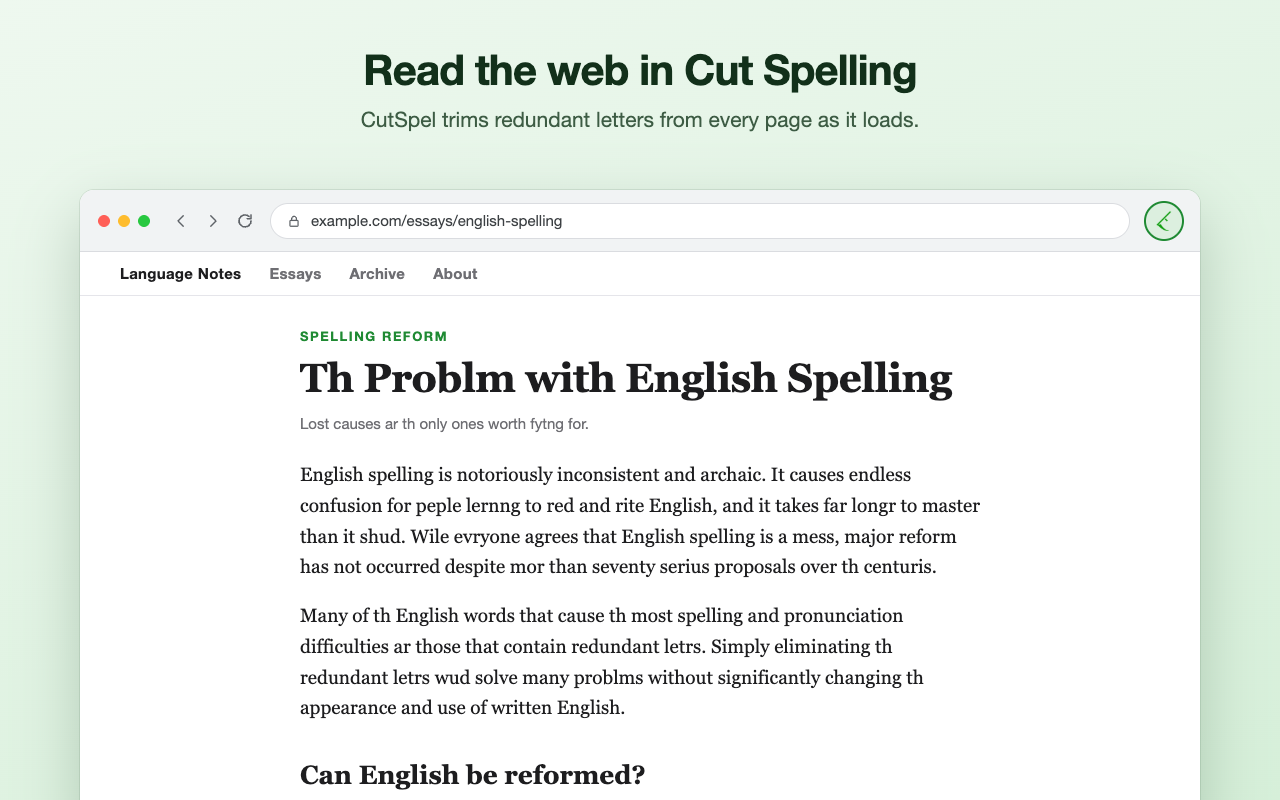
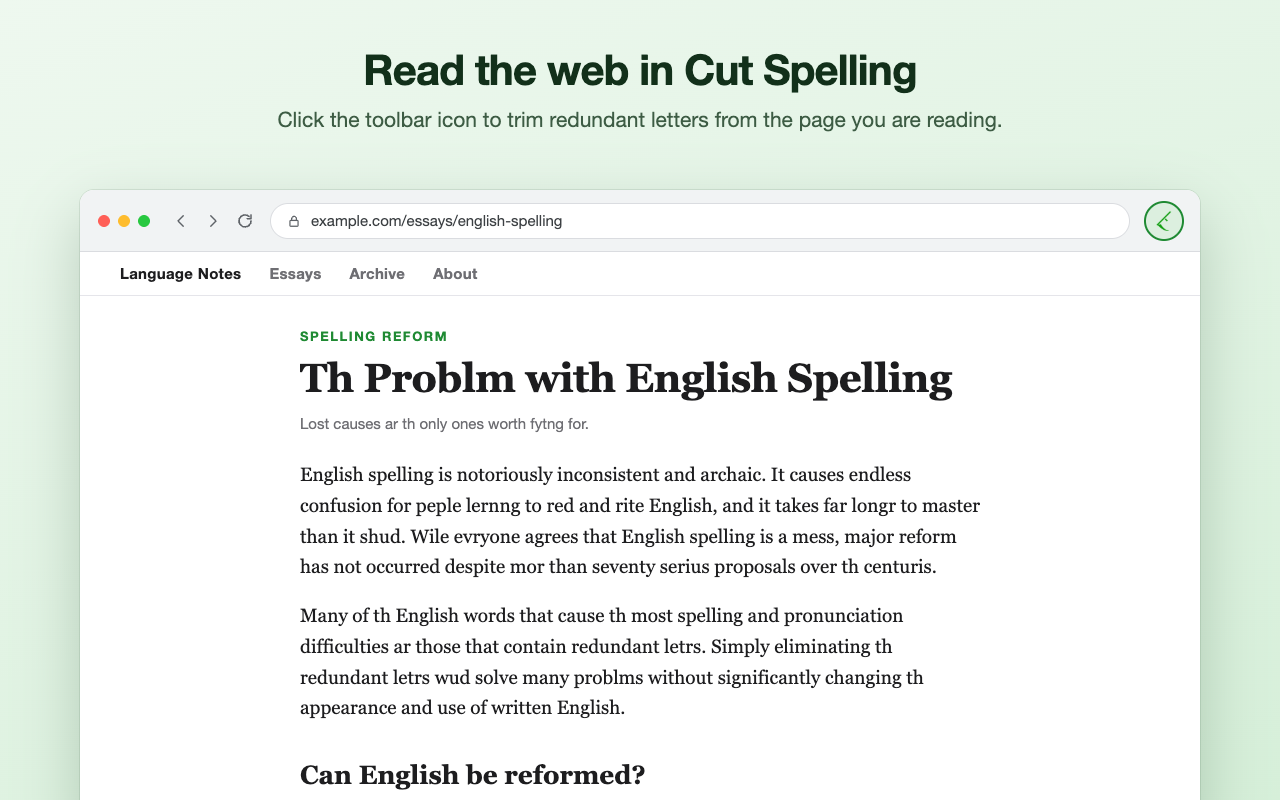
Switch to click-to-cut with optional automatic mode
CutSpel no longer needs access to all websites at install. Clicking the
toolbar icon cuts the current page (activeTab + scripting) and clicking
again restores the traditional spelling. "Cut every page automatically"
on the options page requests optional all-sites access and registers
the content script dynamically; turning it off removes the access.

- Track original text so a page can be restored exactly
- Show a per-tab green/grey icon for cut and uncut pages
- Turn automatic mode off if all-sites access is withdrawn
- Keep automatic mode for upgrading users whose access carried over
- Correct the word counts to 780 (Basic) and about 4,200 (Advanced)
- Update the README for the new behaviour and add a privacy note
- Refresh store screenshots 1 and 4

Changed region(s): [[0.2188, 0.125, 0.7812, 0.1562]]

diff --git a/context-script.js b/context-script.js
@@ -45,7 +45,7 @@
 		return false;
 	}
 
-	function start(words, advanced) {
+	function buildCutter(words, advanced) {
 		var cuts = {},
 			patterns = [];
 
@@ -53,26 +53,38 @@
 			if (advanced || words[i][2]) {
 				cuts[words[i][0]] = words[i][1];
 				//Match both straight and curly apostrophes
-				patterns.push(escapeRegex(words[i][0]).replace(/'/g, "['\u2019]"));
+				patterns.push(escapeRegex(words[i][0]).replace(/'/g, "['’]"));
 			}
 		}
 		if (patterns.length === 0) {
-			return;
+			return null;
 		}
 		//Longest first so the alternation prefers whole words
 		patterns.sort(function(a, b) { return b.length - a.length; });
 		var regex = new RegExp("\\b(?:" + patterns.join("|") + ")\\b", "gi");
+
+		return function(text) {
+			return text.replace(regex, function(found) {
+				var cut = cuts[found.toLowerCase().replace(/’/g, "'")];
+				return cut === undefined ? found : matchCase(found, cut);
+			});
+		};
+	}
+
+	function CutSpel(cutter) {
+		var originals = new Map(),	// text node -> {orig, cut}
+			observer = null,
+			self = this;
 
 		function replaceText(node) {
 			var val = node.nodeValue;
 			if (!val || val.length < 2 || shouldSkip(node)) {
 				return;
 			}
-			var newVal = val.replace(regex, function(found) {
-				var cut = cuts[found.toLowerCase().replace(/\u2019/g, "'")];
-				return cut === undefined ? found : matchCase(found, cut);
-			});
+			var newVal = cutter(val);
 			if (newVal !== val) {
+				var saved = originals.get(node);
+				originals.set(node, {orig: saved && saved.cut === val ? saved.orig : val, cut: newVal});
 				node.nodeValue = newVal;
 			}
 		}
@@ -92,41 +104,90 @@
 			}
 		}
 
-		walk(document.body);
+		function report() {
+			chrome.runtime.sendMessage({action: "cutspel_state", cut: self.cut}).catch(function() {});
+		}
 
-		//Cut text that pages add after loading
-		var pending = [],
-			scheduled = false;
-		new MutationObserver(function(mutations) {
-			for (var m = 0; m < mutations.length; m++) {
-				var added = mutations[m].addedNodes;
-				for (var n = 0; n < added.length; n++) {
-					pending.push(added[n]);
-				}
-			}
-			if (!scheduled && pending.length) {
-				scheduled = true;
-				setTimeout(function() {
-					var nodes = pending;
-					pending = [];
-					scheduled = false;
-					for (var k = 0; k < nodes.length; k++) {
-						if (nodes[k].isConnected) {
-							walk(nodes[k]);
-						}
+		this.cut = false;
+
+		this.cutPage = function() {
+			walk(document.body);
+
+			//Cut text that pages add after loading
+			var pending = [],
+				scheduled = false;
+			observer = new MutationObserver(function(mutations) {
+				for (var m = 0; m < mutations.length; m++) {
+					var added = mutations[m].addedNodes;
+					for (var n = 0; n < added.length; n++) {
+						pending.push(added[n]);
 					}
-				}, 100);
+				}
+				if (!scheduled && pending.length) {
+					scheduled = true;
+					setTimeout(function() {
+						var nodes = pending;
+						pending = [];
+						scheduled = false;
+						if (!observer) {
+							return;
+						}
+						for (var k = 0; k < nodes.length; k++) {
+							if (nodes[k].isConnected) {
+								walk(nodes[k]);
+							}
+						}
+					}, 100);
+				}
+			});
+			observer.observe(document.body, {childList: true, subtree: true});
+			this.cut = true;
+			report();
+		};
+
+		//Put back the traditional spelling, leaving any text the page has since changed
+		this.restorePage = function() {
+			if (observer) {
+				observer.disconnect();
+				observer = null;
 			}
-		}).observe(document.body, {childList: true, subtree: true});
+			originals.forEach(function(saved, node) {
+				if (node.nodeValue === saved.cut) {
+					node.nodeValue = saved.orig;
+				}
+			});
+			originals.clear();
+			this.cut = false;
+			report();
+		};
+
+		this.toggle = function() {
+			if (this.cut) {
+				this.restorePage();
+			} else {
+				this.cutPage();
+			}
+		};
 	}
 
 	if (!document.body) {
 		return;
 	}
-	chrome.storage.local.get(["cutspel_runmode", "cutspel_basic", "cutspel_words"], function(settings) {
-		if (settings.cutspel_runmode === "OFF" || !settings.cutspel_words) {
+	//Injected again by a toolbar click: switch this page between cut and traditional
+	if (window.__cutspel) {
+		if (window.__cutspel !== "loading") {
+			window.__cutspel.toggle();
+		}
+		return;
+	}
+	window.__cutspel = "loading";
+	chrome.storage.local.get(["cutspel_basic", "cutspel_words"], function(settings) {
+		var cutter = settings.cutspel_words && buildCutter(settings.cutspel_words, settings.cutspel_basic === "-1");
+		if (!cutter) {
+			window.__cutspel = null;
 			return;
 		}
-		start(settings.cutspel_words, settings.cutspel_basic === "-1");
+		window.__cutspel = new CutSpel(cutter);
+		window.__cutspel.cutPage();
 	});
 })();

diff --git a/background.js b/background.js
@@ -44,42 +44,94 @@ function loadWordList() {
 		});
 }
 
-function updateIcon(mode) {
-	return chrome.action.setIcon({path: (mode === "OFF" ? "OFF" : "ON") + ".png"});
+var ALL_SITES = {origins: ["<all_urls>"]};
+var AUTO_SCRIPT = {
+	id: "cutspel-auto",
+	matches: ["<all_urls>"],
+	excludeMatches: ["*://*.google.com/*"],
+	js: ["context-script.js"],
+	runAt: "document_idle"
+};
+
+//Green icon on tabs CutSpel has cut, grey everywhere else
+function setTabIcon(tabId, cut) {
+	return chrome.action.setIcon({tabId: tabId, path: cut ? "ON.png" : "OFF.png"}).catch(function() {});
+}
+
+//Register the automatic content script only while automatic mode is on and all-sites access is granted
+function syncAutoScript() {
+	return Promise.all([
+		chrome.storage.local.get("cutspel_auto"),
+		chrome.permissions.contains(ALL_SITES),
+		chrome.scripting.getRegisteredContentScripts({ids: [AUTO_SCRIPT.id]})
+	]).then(function(results) {
+		var wanted = results[0].cutspel_auto === true && results[1],
+			registered = results[2].length > 0;
+		if (wanted && !registered) {
+			return chrome.scripting.registerContentScripts([AUTO_SCRIPT]);
+		}
+		if (!wanted && registered) {
+			return chrome.scripting.unregisterContentScripts({ids: [AUTO_SCRIPT.id]});
+		}
+	});
 }
 
 //Load word list into storage, keeping the user's settings across updates
-chrome.runtime.onInstalled.addListener(function() {
-	chrome.storage.local.get(["cutspel_runmode", "cutspel_basic"]).then(function(settings) {
-		var defaults = {};
-		if (!settings.cutspel_runmode) {
-			defaults.cutspel_runmode = "ON";
+chrome.runtime.onInstalled.addListener(function(details) {
+	Promise.all([
+		chrome.storage.local.get(["cutspel_auto", "cutspel_basic"]),
+		chrome.permissions.contains(ALL_SITES)
+	]).then(function(results) {
+		var settings = results[0],
+			defaults = {};
+		if (settings.cutspel_auto === undefined) {
+			//Keep pages cutting automatically for existing users whose all-sites access carried over
+			defaults.cutspel_auto = details.reason === "update" && results[1];
 		}
 		if (!settings.cutspel_basic) {
 			defaults.cutspel_basic = String(FAST_COUNT);
 		}
-		return chrome.storage.local.set(defaults).then(function() {
-			return updateIcon(settings.cutspel_runmode || "ON");
-		});
-	});
+		return chrome.storage.local.set(defaults);
+	}).then(syncAutoScript);
+	chrome.storage.local.remove("cutspel_runmode");
 	loadWordList();
 });
 
-chrome.runtime.onStartup.addListener(function() {
-	chrome.storage.local.get("cutspel_runmode").then(function(settings) {
-		updateIcon(settings.cutspel_runmode);
+chrome.runtime.onStartup.addListener(syncAutoScript);
+
+chrome.storage.onChanged.addListener(function(changes, area) {
+	if (area === "local" && changes.cutspel_auto) {
+		syncAutoScript();
+	}
+});
+
+//Turn automatic mode off if all-sites access is withdrawn (e.g. from chrome://extensions)
+chrome.permissions.onRemoved.addListener(function() {
+	chrome.permissions.contains(ALL_SITES).then(function(granted) {
+		if (!granted) {
+			chrome.storage.local.set({cutspel_auto: false});
+		}
 	});
 });
 
-//Switch CutSpel on and off, then reload the active tab
+//Cut the current page, or restore it if it is already cut
 chrome.action.onClicked.addListener(function(tab) {
-	chrome.storage.local.get("cutspel_runmode").then(function(settings) {
-		var mode = settings.cutspel_runmode === "OFF" ? "ON" : "OFF";
-		return chrome.storage.local.set({cutspel_runmode: mode}).then(function() {
-			updateIcon(mode);
-			if (tab && tab.id !== undefined) {
-				chrome.tabs.reload(tab.id);
-			}
+	if (tab && tab.id !== undefined) {
+		chrome.scripting.executeScript({target: {tabId: tab.id}, files: ["context-script.js"]}).catch(function() {
+			//Chrome does not allow extensions on some pages, such as chrome:// and the Web Store
 		});
-	});
+	}
+});
+
+//The content script reports whether its page is cut
+chrome.runtime.onMessage.addListener(function(message, sender) {
+	if (message.action === "cutspel_state" && sender.tab) {
+		setTabIcon(sender.tab.id, message.cut);
+	}
+});
+
+chrome.tabs.onUpdated.addListener(function(tabId, info) {
+	if (info.status === "loading") {
+		setTabIcon(tabId, false);
+	}
 });

diff --git a/options.html b/options.html
@@ -23,12 +23,12 @@
 				<p><strong>CutSpel</strong> implements a subset of <i>Cut Spelling</i> 
 			    to automatically 'cut' the text of any webpage. <strong>CutSpel</strong> has two modes.</p>
 				<h4>Basic Mode</h4>
-				<p>Modifies the 1000 most common English word language while 
+				<p>Modifies 780 of the most common English words while 
 				avoiding the more disruptive <i>Cut Spelling</i> changes such as eye -> y. 
 				Names of people and objects are left unchanged. 
 				The text generated by this mode is  easy to read.</p>
 				<h4>Advanced Mode</h4>
-				<p>Modifies the 4500 most common English words and uses the full 
+				<p>Modifies about 4,200 of the most common English words and uses the full 
 				<i>Cut Spelling</i> substitution rules. The text produced by the advanced mode 
 				requires slightly more effort to read, however most people quickly adjust
 				and are reading at their normal pace after only a few hours.</p>
@@ -43,9 +43,20 @@
 						</div>
 					  </div>
 					</form>
-				<p><strong>CutSpel</strong> can be turned on or off for any webpage 
-				by clicking on the <strong>CutSpel Toolbar Icon</strong>.<br>
-				 <img src="ON.png" width="16" height="16">ON  &nbsp; &nbsp;<img src="OFF.png" width="16" height="16">OFF</p>
+				<p>Click the <strong>CutSpel Toolbar Icon</strong> to cut the page you are reading.
+				Click it again to restore the traditional spelling.<br>
+				 <img src="ON.png" width="16" height="16"> Page cut &nbsp; &nbsp;<img src="OFF.png" width="16" height="16"> Page not cut</p>
+				<h4>Automatic Mode</h4>
+					<form role="form" class="well">
+						<div class="checkbox">
+							<label>
+								<input type="checkbox" id="auto_mode"> Cut every page automatically
+							</label>
+						</div>
+						<p class="help-block" style="margin-bottom:0">Chrome will ask you to let <strong>CutSpel</strong> read and change
+						all websites. CutSpel only changes spelling on the page; it does not collect or send anything.
+						Turning this off removes the permission again.</p>
+					</form>
 				</div>
 			</div>
 		</div>

diff --git a/options.js b/options.js
@@ -37,4 +37,33 @@ document.addEventListener("DOMContentLoaded", function() {
 			chrome.storage.local.set({cutspel_basic: this.value});
 		});
 	}
+
+	//Automatic mode needs all-sites access, which Chrome only grants from a click
+	var auto = document.getElementById("auto_mode"),
+		allSites = {origins: ["<all_urls>"]};
+
+	function showAuto() {
+		Promise.all([chrome.storage.local.get("cutspel_auto"), chrome.permissions.contains(allSites)]).then(function(results) {
+			auto.checked = results[0].cutspel_auto === true && results[1];
+		});
+	}
+	showAuto();
+	chrome.storage.onChanged.addListener(function(changes, area) {
+		if (area === "local" && changes.cutspel_auto) {
+			showAuto();
+		}
+	});
+
+	auto.addEventListener("change", function() {
+		if (auto.checked) {
+			chrome.permissions.request(allSites).then(function(granted) {
+				auto.checked = granted;
+				return chrome.storage.local.set({cutspel_auto: granted});
+			});
+		} else {
+			chrome.storage.local.set({cutspel_auto: false}).then(function() {
+				return chrome.permissions.remove(allSites);
+			});
+		}
+	});
 });

diff --git a/README.md b/README.md
@@ -39,10 +39,18 @@ Despite the great potential of <em>Cut Spelling</em>, it has failed to attract m
 
 <strong>CutSpel</strong> enables readers to become comfortable with <em>Cut Spelling</em> while allowing writers to use traditional spelling until they feel their audience is willing to read text written using <em>Cut Spelling</em>. As more readers become familiar with <em>Cut Spelling</em> (via <strong>CutSpel</strong>) more writers will use it, creating a<a href="http://en.wikipedia.org/wiki/Vicious_circle" target="_blank"> virtuous circle</a> where spelling reform can occur organically without the need for it to be imposed from above by some non-existant language authority.
 <h2>Installing CutSpel</h2>
-<a href="https://chrome.google.com/webstore/detail/cutspel/hojgjeiaognigdpphinpoobgpmgpkone" target="_blank"><strong>CutSpel</strong> can be found on the Chrome Webstore</a>
+<a href="https://chrome.google.com/webstore/detail/cutspel/hojgjeiaognigdpphinpoobgpmgpkone" target="_blank"><strong>CutSpel</strong> can be found on the Chrome Webstore</a>. Version 1.1 works in current versions of Google Chrome and needs no special permissions to install.
+
+To run it from this repository instead, open <code>chrome://extensions</code>, turn on <strong>Developer mode</strong>, click <strong>Load unpacked</strong> and choose the CutSpel folder.
 <h2>Using CutSpel</h2>
-<strong>CutSpel</strong> is turned on / off by clicking on the<strong> CutSpel Icon</strong> in the <strong>Chrome Toolbar</strong> (Green = ON; Grey = OFF). When ON all text is automatically converted to the “cut" form as the page loads. <strong>CutSpel</strong> has two modes accessible from the extension options page - <strong>Basic</strong> and <strong>Advanced</strong>.
+Click the <strong>CutSpel Icon</strong> in the <strong>Chrome Toolbar</strong> to convert the page you are reading to the “cut" form. Click it again to restore the traditional spelling. The icon is green on a page that has been cut and grey otherwise. Text the page adds after you click, such as new comments or search results, is cut too.
+
+<strong>CutSpel</strong> has two modes, <strong>Basic</strong> and <strong>Advanced</strong>, and an optional <strong>Automatic Mode</strong>, all set from the extension options page.
 <h3>Basic Mode</h3>
-Modifies the 1000 most common English words while avoiding the more disruptive <em>Cut Spelling</em> changes such as <em>eye</em> » <em>y</em>. Names of people and objects are left unchanged. The text generated by this mode is very easy to read.
+Modifies 780 of the most common English words while avoiding the more disruptive <em>Cut Spelling</em> changes such as <em>eye</em> » <em>y</em>. Names of people and objects are left unchanged. The text generated by this mode is very easy to read.
 <h3>Advanced Mode</h3>
-Modifies the 4500 most common English words and uses the full <em>Cut Spelling</em> substitution rules. Names of people and objects are left unchanged. The text produced by the advanced mode requires slightly more effort to read, however I have found most people quickly adjust and are reading at a normal pace after only a few hours.
+Modifies about 4,200 of the most common English words and uses the full <em>Cut Spelling</em> substitution rules. Names of people and objects are left unchanged. The text produced by the advanced mode requires slightly more effort to read, however I have found most people quickly adjust and are reading at a normal pace after only a few hours.
+<h3>Automatic Mode</h3>
+Tick <strong>Cut every page automatically</strong> on the options page to have every page converted as it loads, without clicking. Chrome will ask you to let <strong>CutSpel</strong> read and change all websites; untick the box to remove that permission again. Pages on google.com are left unchanged in this mode.
+<h3>Privacy</h3>
+<strong>CutSpel</strong> changes spelling inside your browser only. It does not collect, store or send any of the pages you read; the only things it saves are the word list and your settings.
